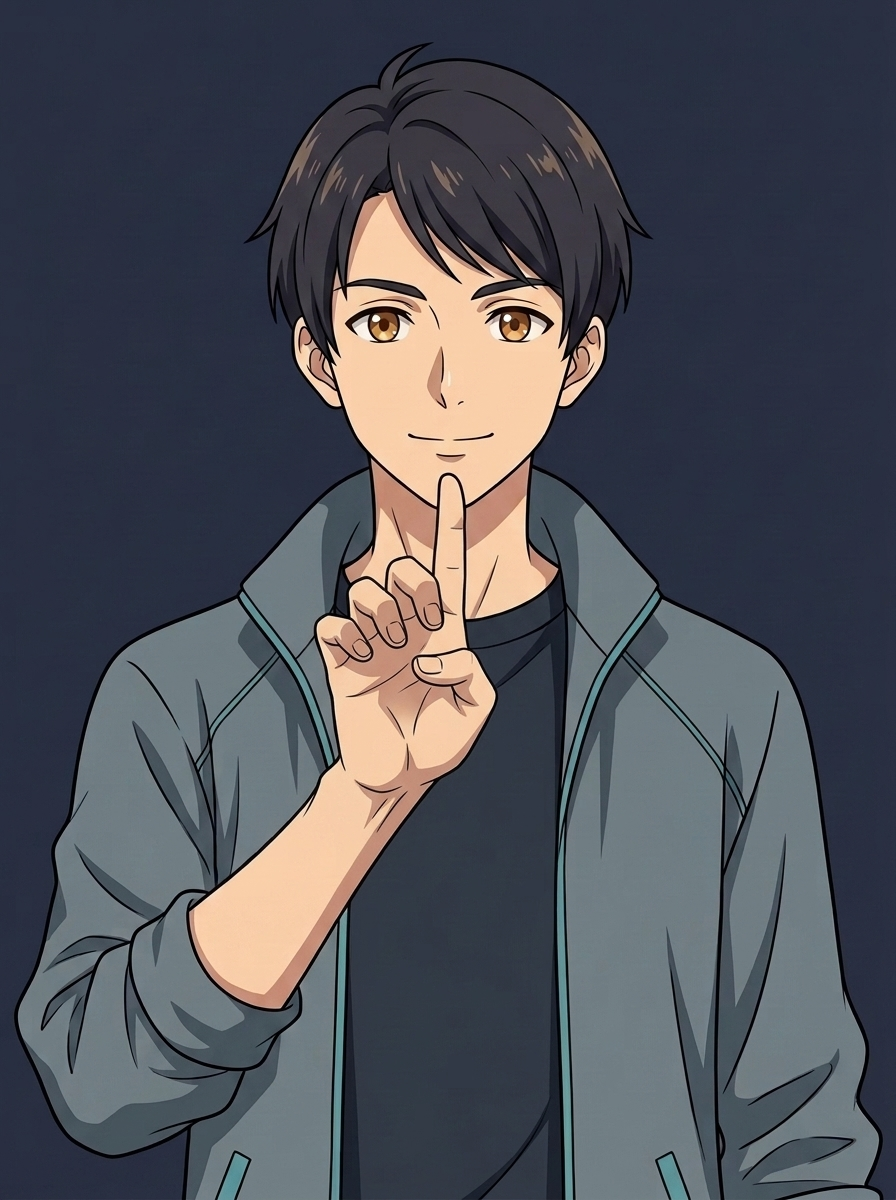
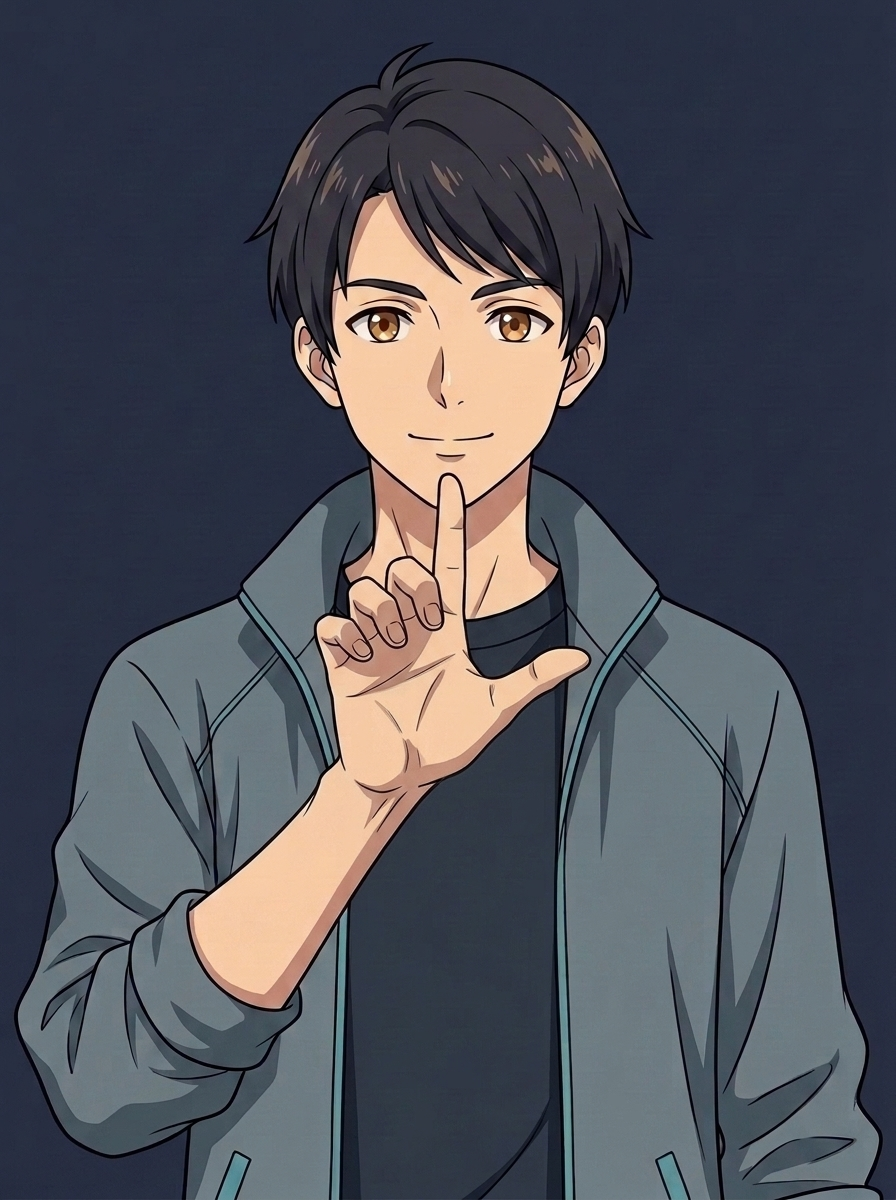
feat(media): correct letter F hand pose (thumb extended outward matching LSC70)

Changed region(s): [[0.4062, 0.5242, 0.6562, 0.6783]]

diff --git a/referencias_para_gemini/PROMPTS_GEMINI.md b/referencias_para_gemini/PROMPTS_GEMINI.md
@@ -453,7 +453,11 @@ Holds pose steadily for 1.8s matching reference (fotos/U_ref.jpg). Flawless fing
 ```text
 Video en bucle continuo de 2.5 segundos. Tutor anime de Lengua de Señas Colombiana (Sol, estilo cel-shading nítido, fondo neutro #070c18).
 Plano medio mostrando torso y rostro. Letra dactilológica 'F' (LSC70AN):
-La mano derecha se eleva frente a la barbilla/boca con la palma orientada hacia adelante hacia la cámara. El dedo índice se mantiene completamente erguido y vertical hacia arriba, mientras los otros tres dedos (medio, anular y meñique) se curvan hacia adelante en un arco abierto escalonado (simulando los trazos horizontales característicos de la letra F), con el pulgar apoyado en la base de la palma.
+La mano derecha se eleva frente a la barbilla/boca con la palma orientada hacia adelante hacia la cámara.
+ANATOMÍA CANÓNICA LSC70:
+1. El dedo índice se mantiene completamente erguido y vertical hacia arriba.
+2. El dedo pulgar está EXTENDIDO Y ABIERTO hacia el lateral exterior/arriba (¡NO está recogido ni doblado sobre la palma!).
+3. Los otros tres dedos (medio, anular y meñique) se curvan hacia adelante en un arco abierto escalonado (simulando los trazos horizontales de la letra F).
 Mantiene la postura estática y nítida durante 1.8 segundos (fotos/F_ref.jpg). 5 dedos anatómicamente perfectos, iluminación difusa de estudio, bucle fluido a 24 fps.
 ```
 
@@ -461,7 +465,11 @@ Mantiene la postura estática y nítida durante 1.8 segundos (fotos/F_ref.jpg). 
 ```text
 Seamless 2.5-second loop video. Anime Colombian Sign Language tutor (Sol, crisp cel-shaded anime style, studio backdrop #070c18).
 Medium shot framing torso and face. Canonical manual alphabet letter 'F' (LSC70AN dataset):
-The right hand is raised in front of the chin/mouth with the palm facing forward toward the camera. The index finger points straight vertically upward, while the other three fingers (middle, ring, pinky) are curved forward in an open, cascading arch (mimicking the horizontal crossbars of letter F), with the thumb resting at the base of the palm.
+The right hand is raised in front of the chin/mouth with the palm facing forward toward the camera.
+CANONICAL LSC70 ANATOMY:
+1. The index finger points straight vertically upward.
+2. The thumb is EXTENDED AND OPEN pointing outward/laterally (NOT curled or tucked across the palm!).
+3. The other three fingers (middle, ring, pinky) are curved forward in an open, cascading arch (mimicking the horizontal crossbars of letter F).
 Holds the canonical pose steadily for 1.8s matching reference (fotos/F_ref.jpg). Flawless 5-finger anatomy, studio lighting, smooth 24 fps loop.
 ```
 
